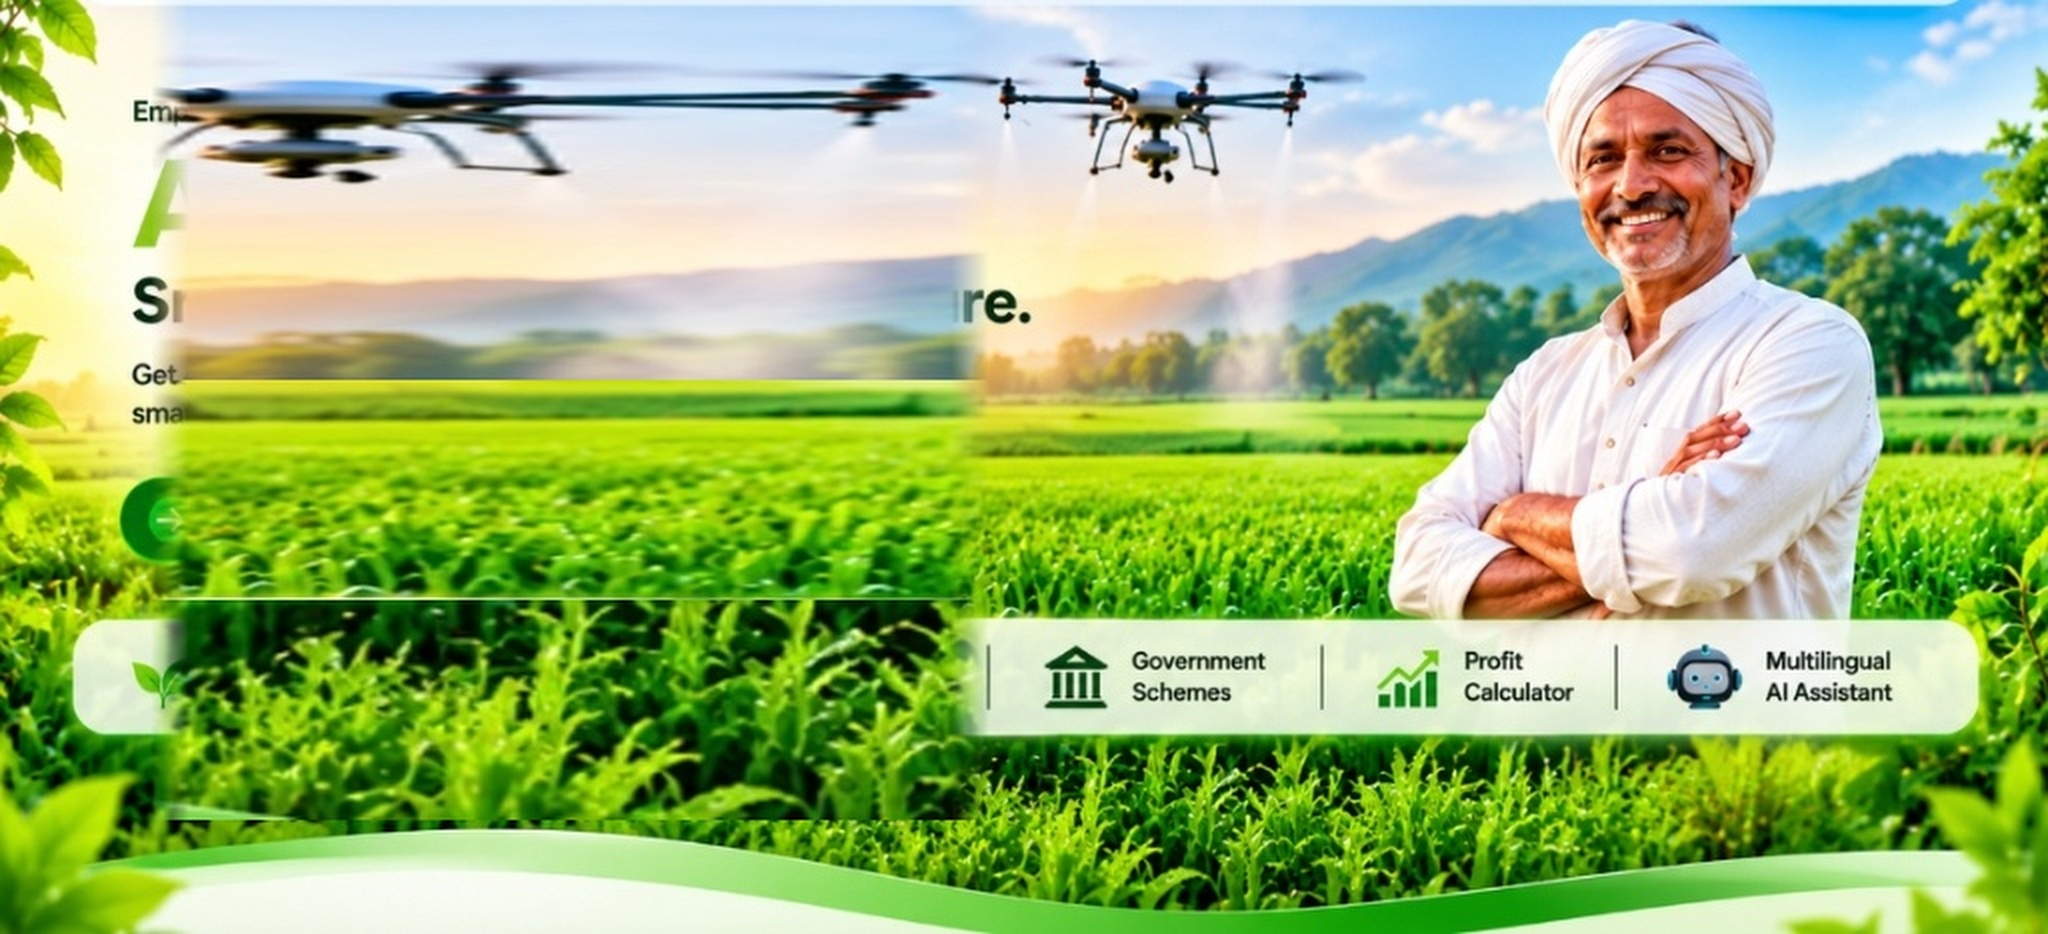
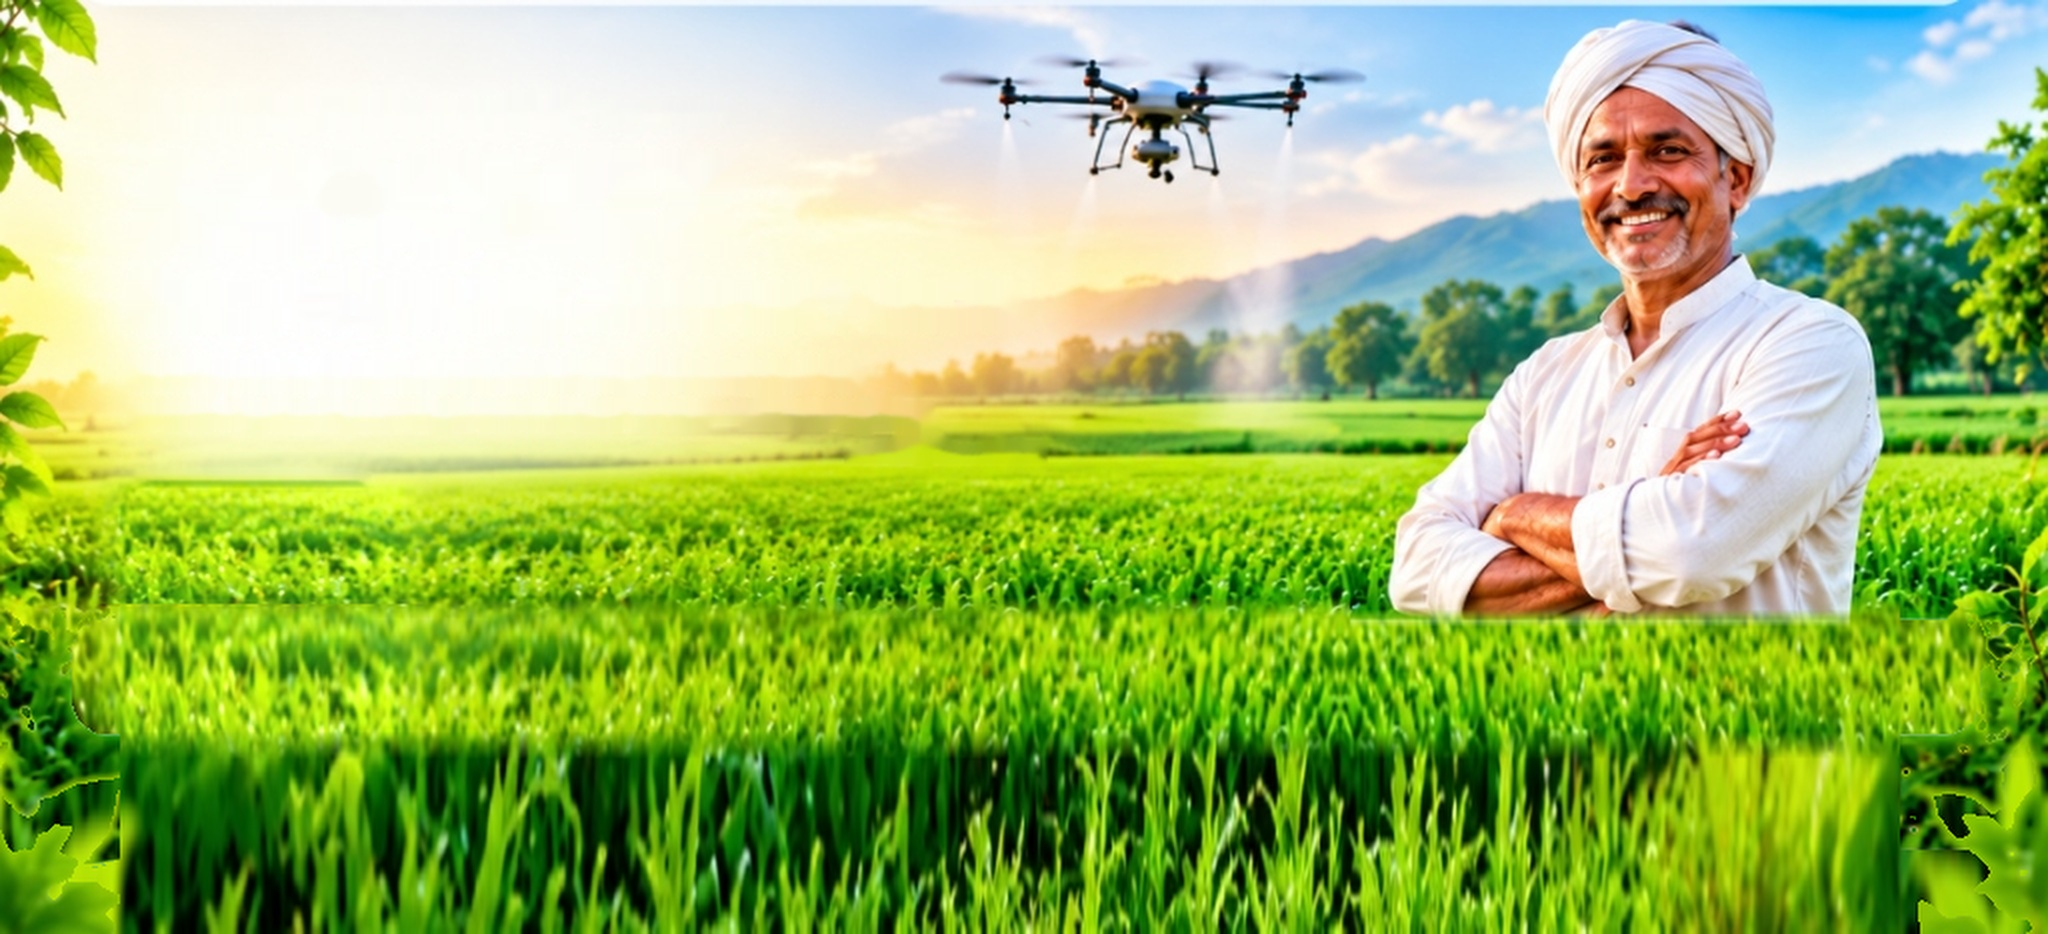
Polish homepage UI: clean 2K hero backdrop without ghosting, fixed floating navbar, crisp typography and feature bar

diff --git a/src/pages/HomePage.tsx b/src/pages/HomePage.tsx
@@ -14,140 +14,131 @@ interface HomePageProps {
 }
 
 export default function HomePage({ onNavigate }: HomePageProps) {
-  // The six features for the floating highlight bar
   const highlightFeatures = [
     {
       id: 'crop-selection',
       name: 'Smart Crop Selection',
       icon: Sprout,
-      iconColor: 'text-emerald-600',
-      iconBg: 'bg-emerald-50 text-emerald-600'
+      iconBg: 'bg-emerald-100/90 text-emerald-600'
     },
     {
       id: 'crop-doctor',
       name: 'AI Crop Doctor',
       icon: PlusCircle,
-      iconColor: 'text-emerald-600',
-      iconBg: 'bg-emerald-50 text-emerald-600'
+      iconBg: 'bg-green-100/90 text-green-600'
     },
     {
       id: 'dashboard',
       name: 'Smart Irrigation',
       icon: Droplets,
-      iconColor: 'text-blue-500',
-      iconBg: 'bg-blue-50 text-blue-500'
+      iconBg: 'bg-sky-100/90 text-sky-600'
     },
     {
       id: 'schemes',
       name: 'Government Schemes',
       icon: Landmark,
-      iconColor: 'text-amber-600',
-      iconBg: 'bg-amber-50 text-amber-600'
+      iconBg: 'bg-amber-100/90 text-amber-700'
     },
     {
       id: 'profit-calc',
       name: 'Profit Calculator',
       icon: TrendingUp,
-      iconColor: 'text-emerald-600',
-      iconBg: 'bg-emerald-50 text-emerald-600'
+      iconBg: 'bg-lime-100/90 text-emerald-700'
     },
     {
       id: 'agro-ai',
       name: 'Multilingual AI Assistant',
       icon: Bot,
-      iconColor: 'text-cyan-600',
-      iconBg: 'bg-cyan-50 text-cyan-600'
+      iconBg: 'bg-cyan-100/90 text-cyan-700'
     }
   ];
 
   return (
-    <div className="relative min-h-[92vh] flex flex-col justify-between overflow-x-hidden font-sans select-none bg-gradient-to-b from-[#f0fbf4] via-[#f7fdf9] to-[#dcfce7]/60">
+    <div className="relative min-h-screen flex flex-col justify-between overflow-x-hidden font-sans select-none bg-[#e8f8ee]">
       {/* =========================================================================
-          1. MAIN HERO SECTION (Lush Agricultural Landscape with Realistic Visuals)
+          MAIN HERO SECTION (Realistic Agricultural Landscape + Clean HTML UI)
          ========================================================================= */}
-      <section className="relative flex-1 flex flex-col justify-between pt-6 sm:pt-10 lg:pt-14 pb-4">
-        {/* Photorealistic Agricultural Landscape Backdrop */}
+      <section className="relative flex-1 flex flex-col justify-between pt-24 sm:pt-28 lg:pt-32">
+        {/* Clean 2K Photorealistic Backdrop */}
         <div
-          className="absolute inset-0 z-0 bg-cover bg-no-repeat bg-[center_top]"
+          className="absolute inset-0 z-0 bg-cover bg-no-repeat bg-center"
           style={{
             backgroundImage: "url('/agronex-hero-backdrop-2k.jpg')"
           }}
         >
-          {/* Subtle natural daylight gradient overlay on the left to ensure 100% typography legibility */}
-          <div className="absolute inset-0 bg-gradient-to-r from-white/85 via-white/40 to-transparent w-full md:w-[65%]" />
+          {/* Gentle left-side sunlight scrim for crisp text legibility without washing out crops */}
+          <div className="absolute inset-0 bg-gradient-to-r from-white/65 via-white/25 to-transparent w-full md:w-[58%]" />
         </div>
 
-        {/* Content Container (Constrained & Responsive) */}
+        {/* Hero Foreground Container */}
         <div className="relative z-10 max-w-7xl mx-auto px-4 sm:px-6 lg:px-8 w-full flex-1 flex flex-col justify-between">
-          {/* Upper Hero Grid: Left Content */}
-          <div className="grid grid-cols-1 lg:grid-cols-12 gap-8 items-center pt-2 sm:pt-6">
+          {/* Upper Grid: Left Content + Right Visual Breathing Space */}
+          <div className="grid grid-cols-1 lg:grid-cols-12 gap-8 items-center my-auto py-4 sm:py-6">
             <div className="lg:col-span-7 xl:col-span-6 space-y-3 sm:space-y-4">
-              {/* Small Tagline with Green Accent Line */}
-              <div className="flex items-center gap-2.5">
+              {/* Small Heading + Green Accent Line */}
+              <div className="flex items-center gap-3">
                 <span className="text-xs sm:text-sm font-bold text-gray-800 tracking-wide">
                   Empowering Indian Farmers with AI
                 </span>
                 <span className="h-[2px] w-12 sm:w-16 bg-emerald-600 rounded-full" />
               </div>
 
-              {/* Main Brand Title: AGRONEX */}
-              <h1 className="text-5xl sm:text-7xl lg:text-[5.5rem] font-black tracking-tight leading-[0.98] text-transparent bg-clip-text bg-gradient-to-r from-emerald-600 via-green-600 to-emerald-900 drop-shadow-sm">
+              {/* Brand Heading */}
+              <h1 className="text-5xl sm:text-7xl lg:text-[5.25rem] font-black tracking-tight leading-[0.95] text-transparent bg-clip-text bg-gradient-to-r from-emerald-500 via-green-600 to-emerald-900">
                 AGRONEX
               </h1>
 
-              {/* Secondary Bold Subtitle */}
-              <h2 className="text-2xl sm:text-3xl lg:text-[2.5rem] font-black text-gray-900 tracking-tight leading-tight">
+              {/* Subheading */}
+              <h2 className="text-2xl sm:text-3xl lg:text-[2.35rem] font-extrabold text-gray-900 tracking-tight leading-tight">
                 Smart Farming. Smarter Future.
               </h2>
 
-              {/* Description Paragraph */}
-              <p className="text-sm sm:text-base lg:text-[1.05rem] text-gray-700 font-medium leading-relaxed max-w-lg pt-1 pb-2">
+              {/* Description */}
+              <p className="text-sm sm:text-base text-gray-800 font-medium leading-relaxed max-w-lg pt-1">
                 Get AI-powered crop recommendations, disease detection, smart irrigation tips and government schemes — all in one place.
               </p>
 
-              {/* Primary Call to Action: ONLY Get Started Button */}
-              <div className="pt-2">
+              {/* Primary CTA: ONLY Get Started Button */}
+              <div className="pt-3">
                 <button
                   onClick={() => onNavigate('dashboard')}
-                  className="inline-flex items-center gap-3.5 px-7 py-3 sm:py-3.5 rounded-full bg-gradient-to-r from-emerald-600 to-green-600 hover:from-emerald-500 hover:to-green-500 text-white font-black text-sm sm:text-base shadow-xl shadow-emerald-700/30 transition-all duration-300 transform hover:-translate-y-0.5 active:translate-y-0 cursor-pointer group"
+                  className="inline-flex items-center gap-3 px-6 py-3 sm:py-3.5 rounded-full bg-gradient-to-r from-emerald-600 to-green-600 hover:from-emerald-500 hover:to-green-500 text-white font-bold text-sm sm:text-base shadow-lg shadow-emerald-800/25 transition-all duration-200 transform hover:-translate-y-0.5 active:translate-y-0 cursor-pointer group"
                 >
-                  <div className="w-6 h-6 sm:w-7 sm:h-7 rounded-full bg-emerald-500 flex items-center justify-center text-white shadow-inner group-hover:scale-105 transition">
-                    <ArrowRight className="w-3.5 h-3.5 sm:w-4 sm:h-4 stroke-[3]" />
-                  </div>
+                  <span className="w-6 h-6 sm:w-7 sm:h-7 rounded-full bg-emerald-500/90 flex items-center justify-center text-white group-hover:translate-x-0.5 transition">
+                    <ArrowRight className="w-3.5 h-3.5 sm:w-4 sm:h-4 stroke-[2.75]" />
+                  </span>
                   <span>Get Started</span>
                 </button>
               </div>
             </div>
 
-            {/* Right Column: Visual Area Spacer (Farmer & Drone are integrated in background) */}
-            <div className="lg:col-span-5 xl:col-span-6 min-h-[140px] sm:min-h-[200px] lg:min-h-[280px]" />
+            {/* Right Visual Space (Farmer & Drone in Background) */}
+            <div className="lg:col-span-5 xl:col-span-6 min-h-[160px] sm:min-h-[220px] lg:min-h-[300px]" />
           </div>
 
           {/* =========================================================================
-              2. FEATURE HIGHLIGHT BAR (Wide Translucent White Glass Bar with 6 Items)
+              FEATURE HIGHLIGHT BAR (Translucent White Frosted Glass Bar)
              ========================================================================= */}
-          <div className="w-full mt-8 sm:mt-12 lg:mt-16">
-            <div className="rounded-2xl sm:rounded-full bg-white/90 backdrop-blur-2xl border border-white/75 shadow-[0_15px_45px_-10px_rgba(0,0,0,0.18)] p-1.5 sm:p-2.5 transition-all">
-              <div className="grid grid-cols-2 md:grid-cols-3 lg:grid-cols-6 divide-y sm:divide-y-0 sm:divide-x divide-gray-200/60">
+          <div className="w-full mt-6 sm:mt-10 mb-4 sm:mb-6">
+            <div className="rounded-2xl lg:rounded-full bg-white/85 backdrop-blur-xl border border-white/80 shadow-[0_12px_35px_-8px_rgba(0,0,0,0.16)] px-2 py-2 sm:px-3 sm:py-2.5">
+              <div className="grid grid-cols-2 md:grid-cols-3 lg:grid-cols-6 divide-y sm:divide-y-0 lg:divide-x divide-gray-200/70">
                 {highlightFeatures.map((feat) => {
                   const Icon = feat.icon;
                   return (
                     <button
                       key={feat.id}
                       onClick={() => onNavigate(feat.id)}
-                      className="px-2.5 sm:px-3 py-2.5 sm:py-3 hover:bg-emerald-50/70 rounded-xl sm:rounded-full transition flex items-center gap-2.5 sm:gap-3 text-left group cursor-pointer"
+                      className="px-3 py-2.5 hover:bg-emerald-50/75 rounded-xl lg:rounded-full transition flex items-center gap-2.5 text-left group cursor-pointer"
                       title={`Open ${feat.name}`}
                     >
                       <div
-                        className={`w-9 h-9 sm:w-10 sm:h-10 rounded-full flex items-center justify-center shadow-xs shrink-0 group-hover:scale-110 transition ${feat.iconBg}`}
+                        className={`w-9 h-9 rounded-full flex items-center justify-center shrink-0 group-hover:scale-110 transition ${feat.iconBg}`}
                       >
-                        <Icon className="w-5 h-5" />
+                        <Icon className="w-4.5 h-4.5" />
                       </div>
-                      <div className="min-w-0">
-                        <span className="text-xs sm:text-[13px] font-extrabold text-gray-900 group-hover:text-emerald-700 transition block leading-tight">
-                          {feat.name}
-                        </span>
-                      </div>
+                      <span className="text-xs font-bold text-gray-800 group-hover:text-emerald-700 transition leading-snug">
+                        {feat.name}
+                      </span>
                     </button>
                   );
                 })}
@@ -157,30 +148,25 @@ export default function HomePage({ onNavigate }: HomePageProps) {
         </div>
 
         {/* =========================================================================
-            3. SMOOTH LIGHT-GREEN LOWER CURVED WAVES (Ends cleanly as in reference)
+            CLEAN CURVED LIGHT-GREEN LOWER WAVE TRANSITION
            ========================================================================= */}
-        <div className="relative w-full overflow-hidden leading-none mt-6 sm:mt-8">
+        <div className="relative z-10 w-full overflow-hidden leading-none mt-2">
           <svg
-            viewBox="0 0 1440 90"
+            viewBox="0 0 1440 80"
             fill="none"
             xmlns="http://www.w3.org/2000/svg"
-            className="w-full h-10 sm:h-16 lg:h-20 block"
+            className="w-full h-10 sm:h-14 lg:h-16 block"
             preserveAspectRatio="none"
           >
             <path
-              d="M0,35 C320,80 560,10 880,45 C1180,75 1320,20 1440,30 L1440,90 L0,90 Z"
-              fill="#dcfce7"
-              opacity="0.85"
+              d="M0,32 C320,76 580,6 920,42 C1190,70 1330,22 1440,30 L1440,80 L0,80 Z"
+              fill="#ecfdf5"
+              opacity="0.92"
             />
             <path
-              d="M0,50 C360,95 680,25 1040,60 C1280,85 1380,40 1440,50 L1440,90 L0,90 Z"
-              fill="#bbf7d0"
-              opacity="0.65"
-            />
-            <path
-              d="M0,65 C420,95 820,45 1200,75 L1440,65 L1440,90 L0,90 Z"
-              fill="#86efac"
-              opacity="0.45"
+              d="M0,48 C380,84 720,24 1080,56 C1290,74 1390,42 1440,48 L1440,80 L0,80 Z"
+              fill="#d1fae5"
+              opacity="0.75"
             />
           </svg>
         </div>

diff --git a/src/components/Navbar.tsx b/src/components/Navbar.tsx
@@ -104,8 +104,8 @@ export default function Navbar({
   // If on public HomePage, render the clean, white/translucent rounded floating navbar matching the reference
   if (currentTab === 'home') {
     return (
-      <header className="sticky top-0 z-50 pt-3 px-3 sm:px-6 lg:px-8 bg-transparent">
-        <div className="max-w-7xl mx-auto rounded-full bg-white/90 backdrop-blur-xl border border-white/70 shadow-[0_10px_30px_-5px_rgba(0,0,0,0.1)] px-4 sm:px-6 py-2.5 flex items-center justify-between">
+      <header className="fixed top-0 left-0 right-0 z-50 pt-3 px-3 sm:px-6 lg:px-8 pointer-events-none">
+        <div className="max-w-7xl mx-auto rounded-full bg-white/85 backdrop-blur-xl border border-white/80 shadow-[0_8px_30px_rgba(0,0,0,0.08)] px-4 sm:px-6 py-2 flex items-center justify-between pointer-events-auto">
           {/* Left: Brand Logo & Tagline */}
           <div
             onClick={() => onSelectTab('home')}
@@ -235,7 +235,7 @@ export default function Navbar({
 
         {/* Mobile Dropdown Menu */}
         {mobileMenuOpen && (
-          <div className="md:hidden mt-2 mx-auto max-w-7xl bg-white/95 backdrop-blur-xl border border-gray-200 rounded-3xl p-4 shadow-xl space-y-2 animate-fadeIn text-gray-800 text-xs font-bold">
+          <div className="md:hidden mt-2 mx-auto max-w-7xl bg-white/95 backdrop-blur-xl border border-gray-200 rounded-3xl p-4 shadow-xl space-y-2 animate-fadeIn text-gray-800 text-xs font-bold pointer-events-auto">
             <button
               onClick={() => {
                 onSelectTab('home');

diff --git a/src/App.tsx b/src/App.tsx
@@ -41,7 +41,11 @@ export default function App() {
 
   return (
     <FarmerProvider>
-      <div className="min-h-screen bg-[#041008] text-gray-100 flex flex-col justify-between selection:bg-emerald-500 selection:text-white font-sans">
+      <div
+        className={`min-h-screen flex flex-col justify-between selection:bg-emerald-500 selection:text-white font-sans ${
+          currentTab === 'home' ? 'bg-[#e8f8ee] text-gray-900' : 'bg-[#041008] text-gray-100'
+        }`}
+      >
         {/* Top Sticky Navigation Bar */}
         <Navbar
           currentTab={currentTab}
